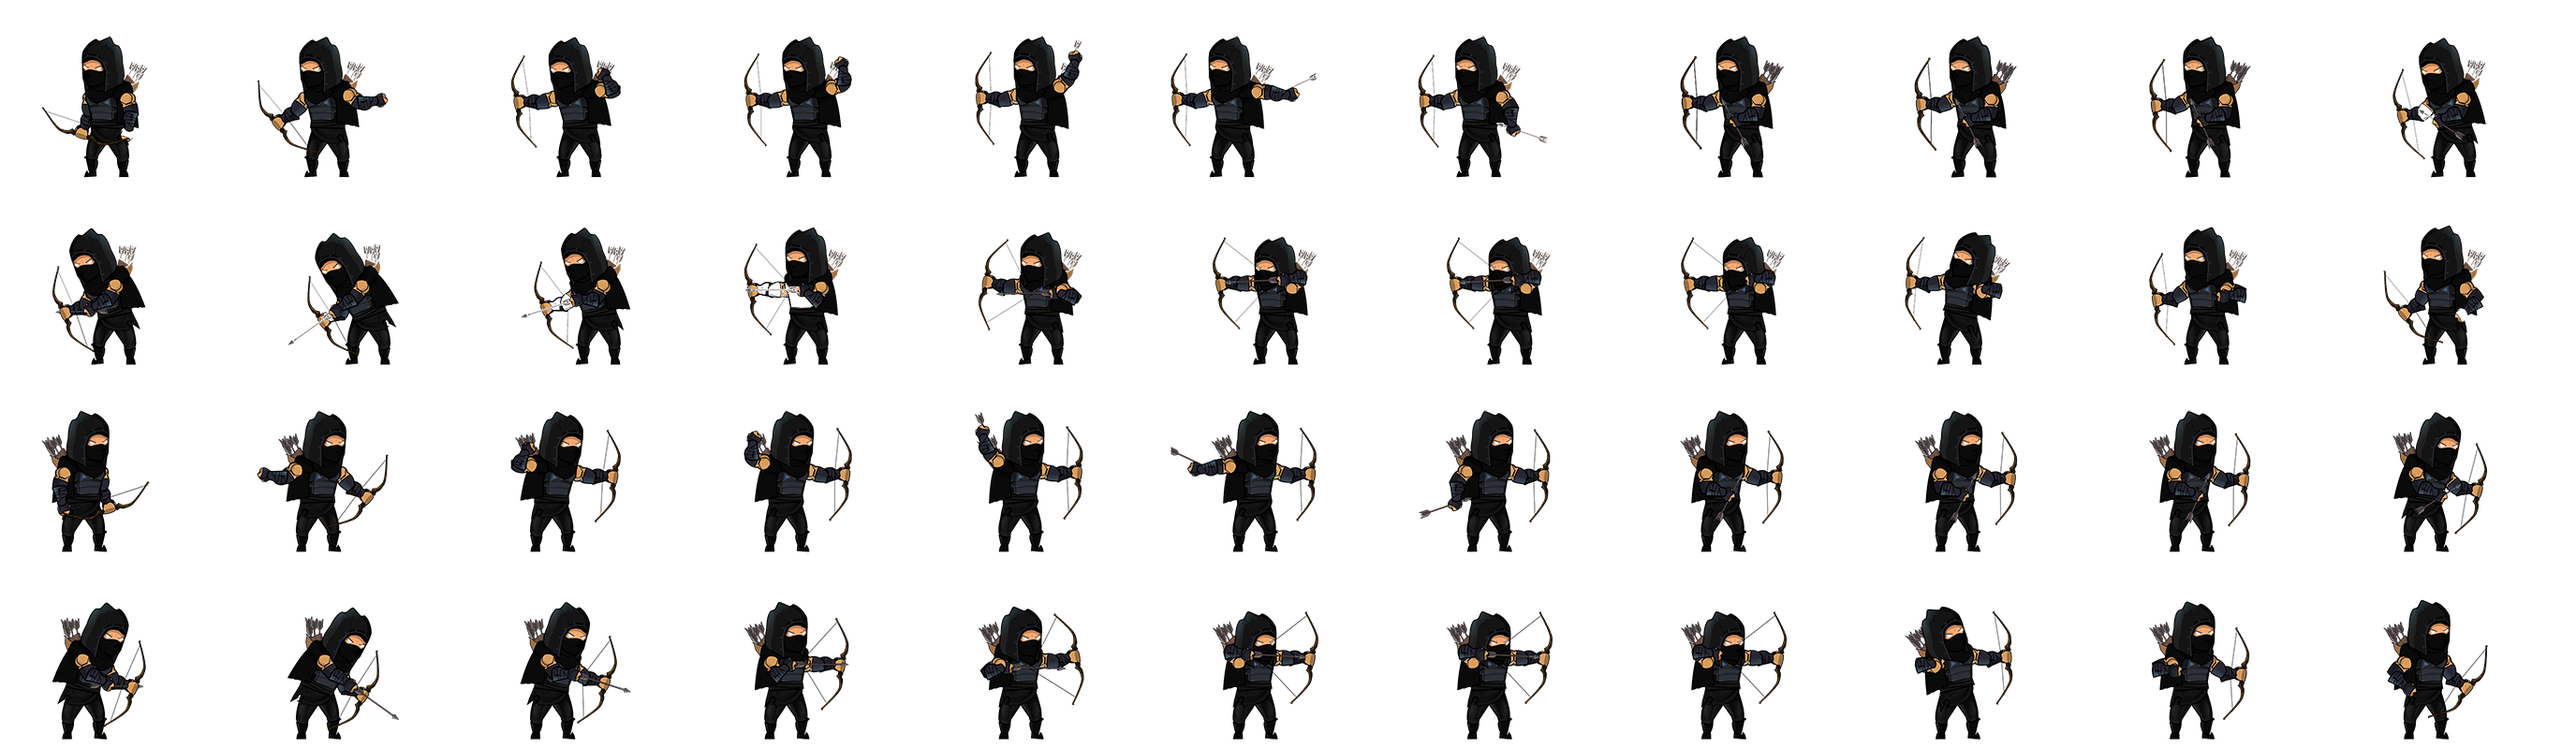
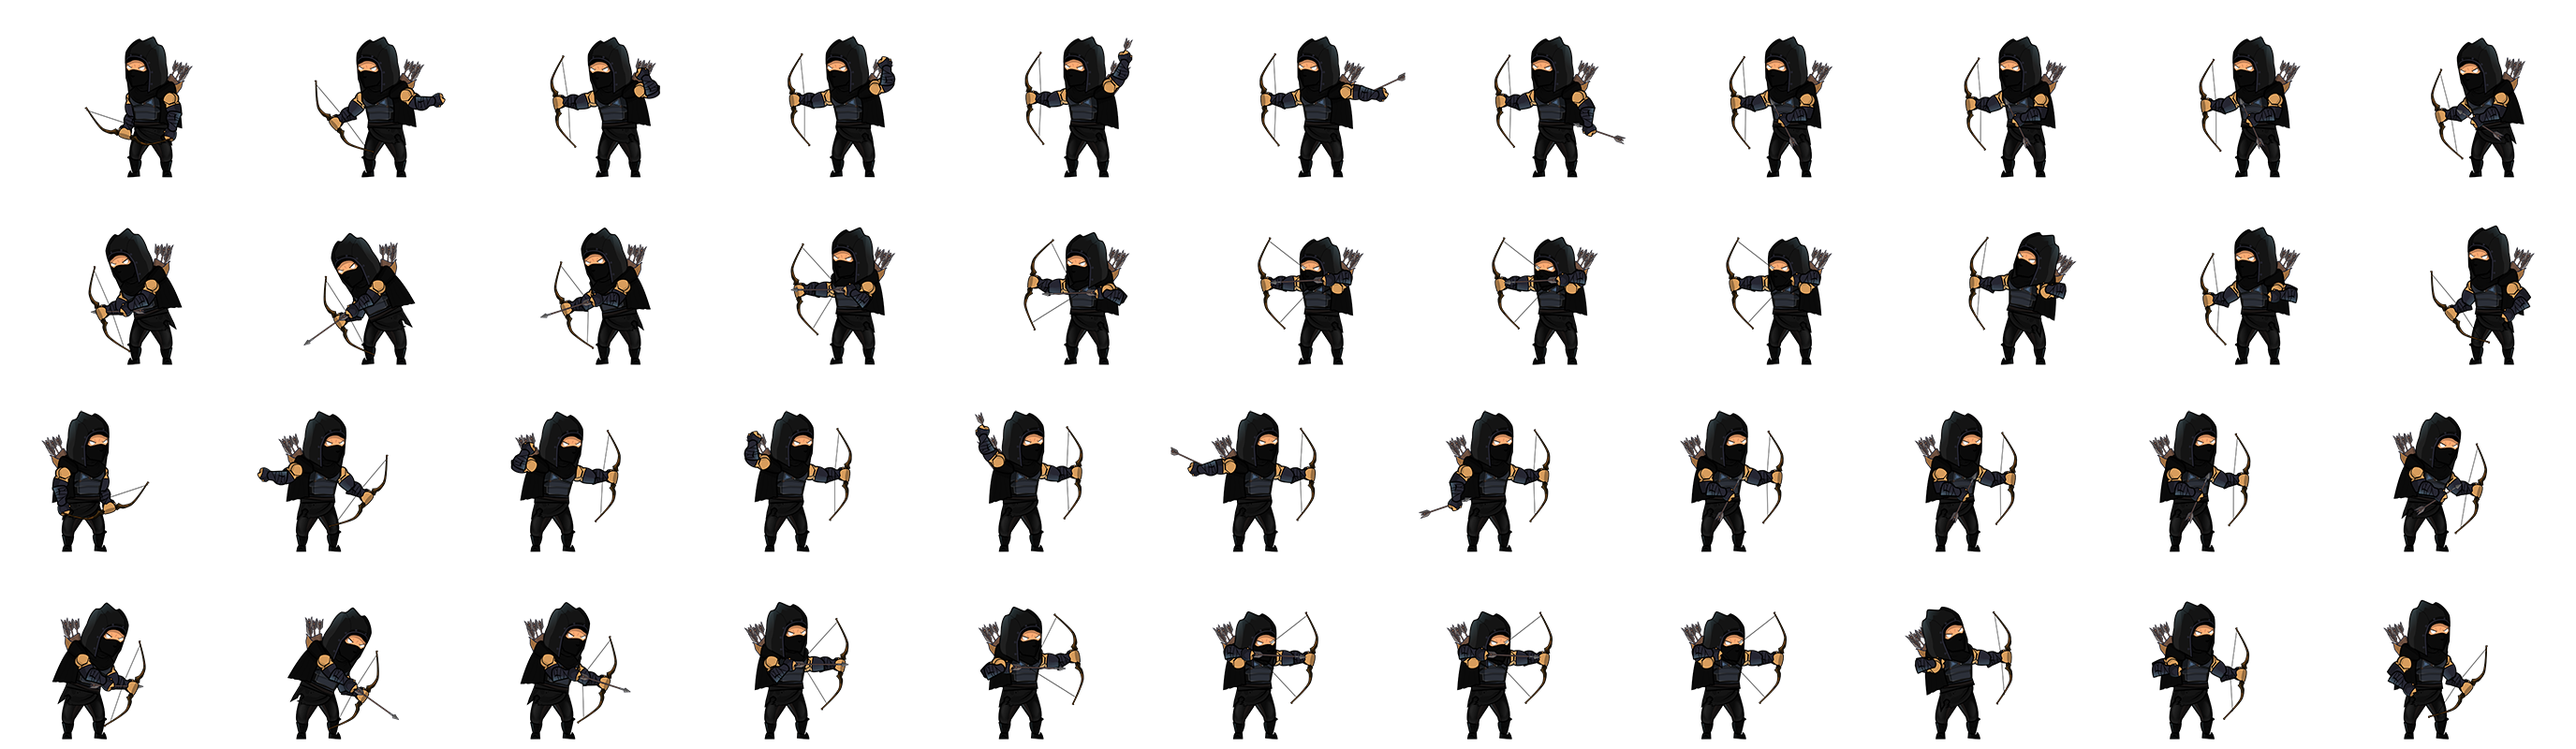
Edit

diff --git a/js/player.js b/js/player.js
@@ -15,8 +15,8 @@ class Player {
 							new Render(this.image_idle, this.position.x, this.position.y, image_idle_width, image_idle_height, scale,  0, 11,  6, 2, 10),  //right idle
 							new Render(this.image_run,  this.position.x, this.position.y, image_run_width,  image_run_height,  scale,  0, 15,  4, 4, 10),  //left  run
 							new Render(this.image_run,  this.position.x, this.position.y, image_run_width,  image_run_height,  scale,  0, 15,  4, 4, 10),  //right run
-							new Render(this.image_shot, this.position.x, this.position.y, image_shot_width, image_shot_height, scale,  0, 21, 11, 2, 10),  //left  shot
-							new Render(this.image_shot, this.position.x, this.position.y, image_shot_width, image_shot_height, scale,  0, 21, 11, 2, 10)   //right shot
+							new Render(this.image_shot, this.position.x, this.position.y, image_shot_width, image_shot_height, scale,  0, 21, 11, 4, 10),  //left  shot
+							new Render(this.image_shot, this.position.x, this.position.y, image_shot_width, image_shot_height, scale,  22, 21, 11, 4, 10)   //right shot
 						];
 
 		this.hp = hp;

diff --git a/js/main.js b/js/main.js
@@ -14,7 +14,7 @@ engine.ground[2].render.position.x = engine.ground[1].render.position.x + ground
 
 engine.player = new Player('./image/hero/idle.png',  1501, 401,
 						   './image/hero/run.png',   1000, 800,
-						   './image/hero/shot.png',  2751, 400,
+						   './image/hero/shot.png',  2751, 800,
 						   20, engine.canvas.height * 0.59, scale);
 
 engine.arrows = new Arrows('./image/arrow.png', scale);
